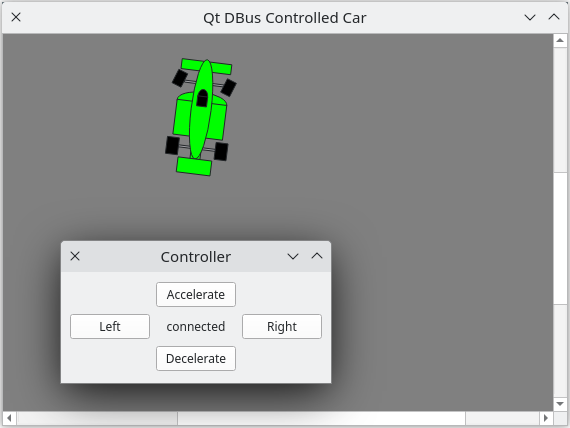
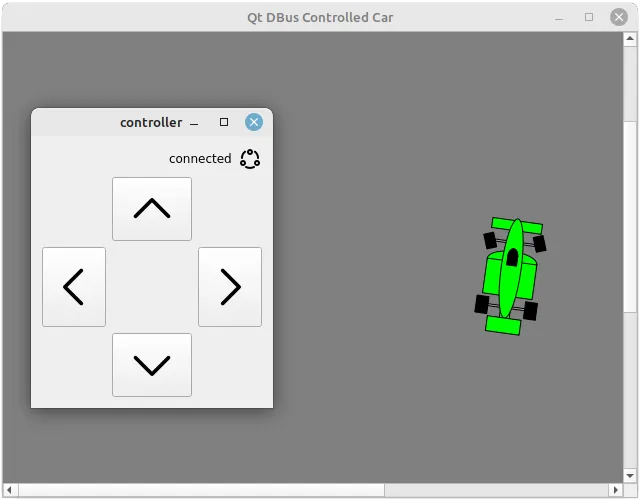
Update visuals of remote controlled car example
* Added icons to the controller.
* Keep the car within the scene.
* Removed the ui file because 4 buttons can be maintained in code easier.

(cherry picked from commit 29a4323974a1877faf389637be40688e3bc1790d)

diff --git a/examples/dbus/remotecontrolledcar/controller/controller.cpp b/examples/dbus/remotecontrolledcar/controller/controller.cpp
@@ -2,18 +2,47 @@
 // SPDX-License-Identifier: LicenseRef-Qt-Commercial OR BSD-3-Clause
 
 #include "controller.h"
+#include <QGridLayout>
+#include <QHBoxLayout>
 
 using org::example::Examples::CarInterface;
 
 Controller::Controller(QWidget *parent) : QWidget(parent)
 {
-    ui.setupUi(this);
     car = new CarInterface("org.example.CarExample", "/Car", QDBusConnection::sessionBus(), this);
 
-    connect(ui.accelerate, &QPushButton::clicked, car, &CarInterface::accelerate);
-    connect(ui.decelerate, &QPushButton::clicked, car, &CarInterface::decelerate);
-    connect(ui.left, &QPushButton::clicked, car, &CarInterface::turnLeft);
-    connect(ui.right, &QPushButton::clicked, car, &CarInterface::turnRight);
+    accelerate = new QPushButton(QIcon(":up.svg"), "", this);
+    accelerate->setFixedSize(80, 64);
+    accelerate->setIconSize(QSize(44, 44));
+    decelerate = new QPushButton(QIcon(":down.svg"), "", this);
+    decelerate->setFixedSize(80, 64);
+    decelerate->setIconSize(QSize(44, 44));
+    left = new QPushButton(QIcon(":left.svg"), "", this);
+    left->setFixedSize(64, 80);
+    left->setIconSize(QSize(44, 44));
+    right = new QPushButton(QIcon(":right.svg"), "", this);
+    right->setFixedSize(64, 80);
+    right->setIconSize(QSize(44, 44));
+
+    status = new QLabel(this);
+    statusSymbol = new QLabel(this);
+    statusSymbol->setFixedHeight(24);
+
+    QGridLayout *layout = new QGridLayout(this);
+    layout->addWidget(accelerate, 1, 1);
+    layout->addWidget(left, 2, 0);
+    layout->addWidget(right, 2, 2);
+    layout->addWidget(decelerate, 3, 1);
+
+    QHBoxLayout *statusLayout = new QHBoxLayout();
+    statusLayout->addWidget(status);
+    statusLayout->addWidget(statusSymbol);
+    layout->addLayout(statusLayout, 0, 1, 1, 2, Qt::AlignTop | Qt::AlignRight);
+
+    connect(accelerate, &QPushButton::clicked, car, &CarInterface::accelerate);
+    connect(decelerate, &QPushButton::clicked, car, &CarInterface::decelerate);
+    connect(left, &QPushButton::clicked, car, &CarInterface::turnLeft);
+    connect(right, &QPushButton::clicked, car, &CarInterface::turnRight);
 
     startTimer(1000);
 }
@@ -21,5 +50,9 @@ Controller::Controller(QWidget *parent) : QWidget(parent)
 void Controller::timerEvent(QTimerEvent *event)
 {
     Q_UNUSED(event);
-    ui.label->setText(car->isValid() ? tr("connected") : tr("disconnected"));
+
+    static QPixmap connectedIcon = QPixmap::fromImage(QImage(":connected.svg"));
+    static QPixmap connectingIcon = QPixmap::fromImage(QImage(":connecting.svg"));
+    status->setText(car->isValid() ? tr("connected") : tr("searching..."));
+    statusSymbol->setPixmap(car->isValid() ? connectedIcon : connectingIcon);
 }

diff --git a/examples/dbus/remotecontrolledcar/car/car.cpp b/examples/dbus/remotecontrolledcar/car/car.cpp
@@ -93,5 +93,24 @@ void Car::timerEvent(QTimerEvent *event)
 
     setTransform(QTransform().rotate(rotation), true);
     setTransform(QTransform::fromTranslate(0, -speed), true);
+
+    if (!scene()->views().isEmpty()) {
+        QRect viewRect = scene()->views().at(0)->sceneRect().toRect();
+        QTransform fx = transform();
+        qreal dx = fx.dx();
+        qreal dy = fx.dy();
+        while (dx < viewRect.left() - 10)
+            dx += viewRect.width();
+        while (dy < viewRect.top() - 10)
+            dy += viewRect.height();
+        while (dx > viewRect.right() + 10)
+            dx -= viewRect.width();
+        while (dy > viewRect.bottom() + 10)
+            dy -= viewRect.width();
+        setTransform(QTransform(fx.m11(), fx.m12(), fx.m13(),
+                                fx.m21(), fx.m22(), fx.m23(),
+                                dx, dy, fx.m33()));
+    }
+
     update();
 }

diff --git a/examples/dbus/remotecontrolledcar/controller/controller.h b/examples/dbus/remotecontrolledcar/controller/controller.h
@@ -4,7 +4,10 @@
 #ifndef CONTROLLER_H
 #define CONTROLLER_H
 
-#include "ui_controller.h"
+#include <QWidget>
+#include <QPushButton>
+#include <QLabel>
+
 #include "car_interface.h"
 
 class Controller : public QWidget
@@ -18,8 +21,13 @@ protected:
     void timerEvent(QTimerEvent *event) override;
 
 private:
-    Ui::Controller ui;
     org::example::Examples::CarInterface *car;
+    QPushButton *accelerate;
+    QPushButton *decelerate;
+    QPushButton *left;
+    QPushButton *right;
+    QLabel *statusSymbol;
+    QLabel *status;
 };
 
 #endif

diff --git a/examples/dbus/remotecontrolledcar/car/main.cpp b/examples/dbus/remotecontrolledcar/car/main.cpp
@@ -23,7 +23,7 @@ int main(int argc, char *argv[])
     view.setRenderHint(QPainter::Antialiasing);
     view.setBackgroundBrush(Qt::darkGray);
     view.setWindowTitle(QT_TRANSLATE_NOOP(QGraphicsView, "Qt DBus Controlled Car"));
-    view.resize(400, 300);
+    view.resize(view.sizeHint());
     view.show();
 
     new CarInterfaceAdaptor(car);
